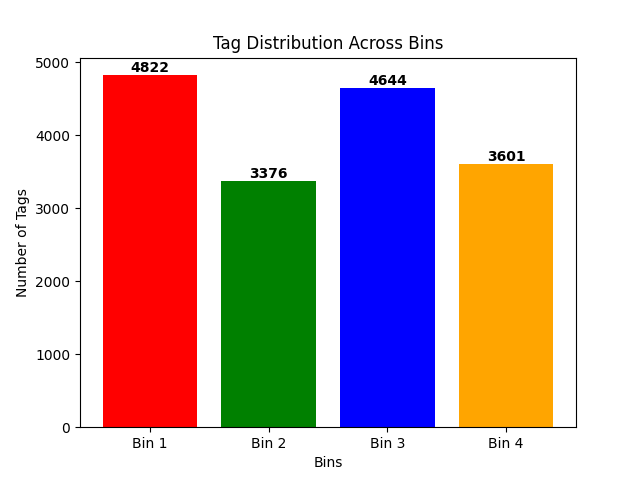
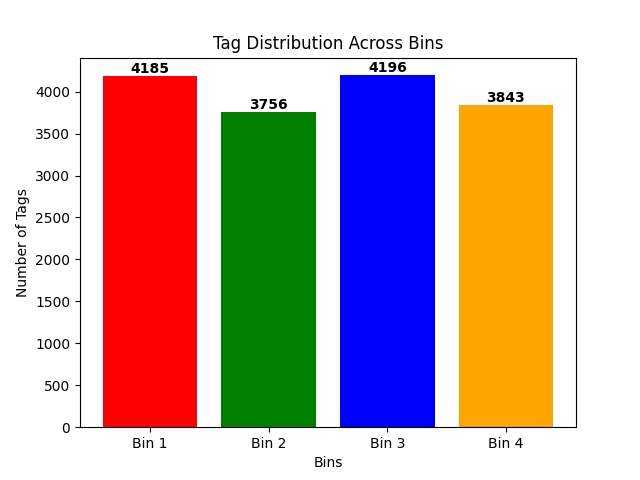
poprawa bloki

diff --git a/Breath_dataset_and_apps/code/brp-ml-model-main/models/Pytorch/engine.py b/Breath_dataset_and_apps/code/brp-ml-model-main/models/Pytorch/engine.py
@@ -7,6 +7,7 @@ import torch
 from tqdm.auto import tqdm
 from typing import Dict, List, Tuple
 
+
 def train_step(model: torch.nn.Module, 
                dataloader: torch.utils.data.DataLoader, 
                loss_fn: torch.nn.Module, 
@@ -156,12 +157,16 @@ def train(model: torch.nn.Module,
                   test_acc: [0.3400, 0.2973]} 
   """
   # Create empty results dictionary
-  results = {"train_loss": [],
+  results = {
+    "epoch":[],
+    "train_loss": [],
       "train_acc": [],
       "test_loss": [],
-      "test_acc": []
+      "test_acc": [],
+      "max_test_acc":[]
   }
   
+  maksimum_test =0
   # Loop through training and testing steps for a number of epochs
   for epoch in tqdm(range(epochs)):
       train_loss, train_acc = train_step(model=model,
@@ -175,19 +180,28 @@ def train(model: torch.nn.Module,
           device=device)
       
       # Print out what's happening
+      if(maksimum_test<train_acc):
+          maksimum_test=train_acc
+          
       print(
           f"Epoch: {epoch+1} | "
           f"train_loss: {train_loss:.4f} | "
           f"train_acc: {train_acc:.4f} | "
           f"test_loss: {test_loss:.4f} | "
-          f"test_acc: {test_acc:.4f}"
+          f"test_acc: {test_acc:.4f} | "
+          f"max_test_acc: {maksimum_test:.4f} | "
       )
-
+    
+          
       # Update results dictionary
+      
+      results["epoch"].append(epoch+1)
       results["train_loss"].append(train_loss)
       results["train_acc"].append(train_acc)
       results["test_loss"].append(test_loss)
       results["test_acc"].append(test_acc)
+      results["max_test_acc"].append(maksimum_test)
 
   # Return the filled results at the end of the epochs
+  
   return results

diff --git a/Breath_dataset_and_apps/code/brp-ml-model-main/models/Pytorch/data_download.py b/Breath_dataset_and_apps/code/brp-ml-model-main/models/Pytorch/data_download.py
@@ -46,3 +46,44 @@ class SequenceDataset(Dataset):
 
     def __getitem__(self, idx):
         return self.X[idx], self.y[idx]
+class BlockDataset(Dataset):
+    def __init__(self, filename, block_size=14, convert_to_categorical=False):
+        """
+        Ładuje dane i grupuje sekwencje w bloki po kilka sekwencji.
+        Każdy blok to fragment danych o długości block_size.
+        """
+
+        # Wczytaj dane
+        data = []
+        with open(filename, "r") as f:
+            for line in f.readlines():
+                data.append([float(v) for v in line.strip().split(",")])
+        data = np.array(data)
+
+        X = data[:, :-1]
+        y = data[:, -1]
+
+        # Tworzenie bloków
+        blocks_X, blocks_y = [], []
+        for i in range(len(X) - block_size + 1):
+            blocks_X.append(X[i:i + block_size])
+            # Dla etykiety możesz wziąć np. ostatnią lub dominującą
+            blocks_y.append(y[i + block_size - 1])
+
+        self.X = np.array(blocks_X)  # shape: (num_blocks, block_size, seq_len)
+        self.y = np.array(blocks_y)
+
+        # One-hot encoding (opcjonalnie)
+        if convert_to_categorical:
+            num_classes = len(np.unique(self.y))
+            self.y = to_categorical(self.y, num_classes=num_classes)
+
+        # Na tensory PyTorch
+        self.X = torch.tensor(self.X, dtype=torch.float32)
+        self.y = torch.tensor(self.y, dtype=torch.long if not convert_to_categorical else torch.float32)
+
+    def __len__(self):
+        return len(self.X)
+
+    def __getitem__(self, idx):
+        return self.X[idx], self.y[idx]

diff --git a/Breath_dataset_and_apps/code/brp-ml-model-main/main.py b/Breath_dataset_and_apps/code/brp-ml-model-main/main.py
@@ -14,7 +14,7 @@ import matplotlib.pyplot as plt
 #  plot so it can be used in this test using predicted
 #  data from model and X_test, y_test fields
 
-SENSOR = SensorType.WIT_ACCELEROMETER
+SENSOR = SensorType.TENSOMETER
 SENSOR_NAME = SENSOR.value["name"]
 
 def evaluate_data_set_size():
@@ -77,15 +77,15 @@ if __name__ == "__main__":
         sensor_type=f"{SENSOR_NAME}",
     )
     evaluate_data_set_size()
-    # model.get_random_samples(1)
-    #model.compile()
+    model.get_random_samples(1)
+    model.compile()
     #evaluate_epochs()
-    #time_before = time.time()
-    #print('hello')
-    #model.fit(sensor_type=f"{SENSOR_NAME}", epochs=90)
+    time_before = time.time()
+    print('hello')
+    model.fit(sensor_type=f"{SENSOR_NAME}", epochs=90)
     
     
-    #print(f"Training time: {time.time() - time_before}")
+    print(f"Training time: {time.time() - time_before}")
     
     
     # model = GRUModel()

diff --git a/Breath_dataset_and_apps/code/brp-ml-model-main/models/Pytorch/data_loader.py b/Breath_dataset_and_apps/code/brp-ml-model-main/models/Pytorch/data_loader.py
@@ -8,6 +8,7 @@ import os
 from torchvision import datasets, transforms
 from torch.utils.data import DataLoader
 from data_download import SequenceDataset
+from data_download import BlockDataset
 NUM_WORKERS = os.cpu_count()
 
 def create_dataloaders(
@@ -16,8 +17,8 @@ def create_dataloaders(
     num_workers: int=NUM_WORKERS
 ):
 
-  train_data = SequenceDataset("../../data/pretrained/tens_sequence/tens_concatenated.txt")
-  test_data = SequenceDataset("../../data/pretrained/tens_sequence/tens_test.txt")
+  train_data = BlockDataset("../../data/pretrained/tens_sequence/tens_concatenated.txt")
+  test_data = BlockDataset("../../data/pretrained/tens_sequence/tens_test.txt")
   # Turn images into data loaders
   train_dataloader = DataLoader(
       train_data,

diff --git a/Breath_dataset_and_apps/code/brp-ml-model-main/models/Pytorch/main.py b/Breath_dataset_and_apps/code/brp-ml-model-main/models/Pytorch/main.py
@@ -5,10 +5,10 @@ import torch
 import engine
 
 
-NUM_EPOCHS = 100
+NUM_EPOCHS = 64
 LEARNING_RATE = 0.001
 
-BATCHES = 32
+BATCHES = 64
 data_transform = transforms.Compose([
   transforms.Resize((64, 64)),
   transforms.ToTensor()

diff --git a/Breath_dataset_and_apps/code/brp-ml-model-main/models/Pytorch/GRUMODELPYTROCH.py b/Breath_dataset_and_apps/code/brp-ml-model-main/models/Pytorch/GRUMODELPYTROCH.py
@@ -30,7 +30,7 @@ class GruModel(nn.Module):
         x = self.dropout1(x)
         x = self.fc1(x)
         x = self.tanh(x)
-        x= self.dropout1(x)
+        x = self.dropout1(x)
         x = self.fc2(x)
         
         
